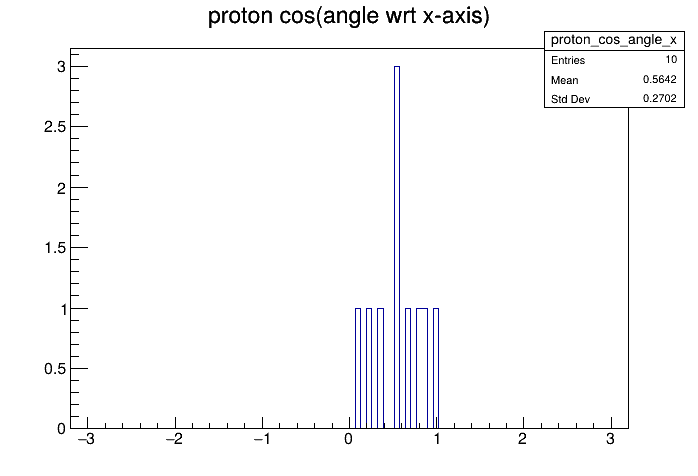
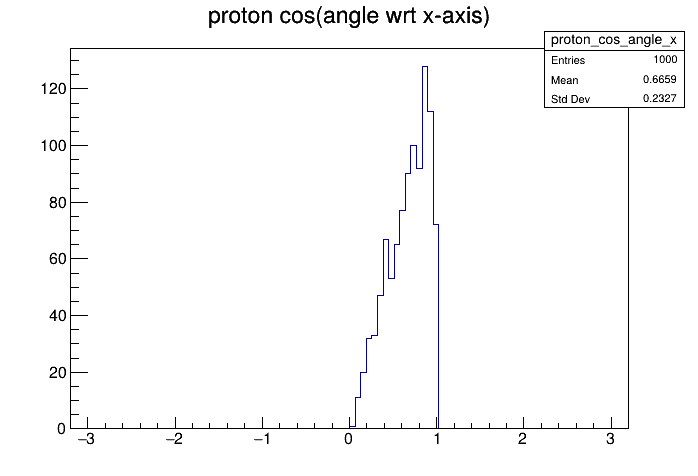
Added output.

diff --git a/neutrons.py b/neutrons.py
@@ -5,6 +5,7 @@ import math
 from ROOT import TLorentzVector, TVector3, TGraphErrors
 from array import array
 from math import sqrt
+import numpy as np
 
 # to do
 
@@ -51,7 +52,7 @@ def main():
     neutron_energies = [
         1.0
     ]  # [1.0, 3.0, 5.0]                  # neutron beam kinetic energy [MeV]
-    n_neutrons_detected = [100]  # [10,15,20,50,100]
+    n_neutrons_detected = [1000]  # [10,15,20,50,100]
     gas = ["Propane"]
 
     h_angle_residual = TH1F(
@@ -100,6 +101,15 @@ def main():
         180.0,
     )
 
+    # Lists for CSVs for training
+    protonPhiTruth = []
+    protonThetaTruth = []
+    protonEnergyTruth = []
+    protonPhiSmear = []
+    protonThetaSmear = []
+    protonEnergySmear = []
+
+
     for kinetic_energy in neutron_energies:
         E_n = neutron_mass + kinetic_energy
         p_n = sqrt(E_n**2 - neutron_mass**2)
@@ -123,7 +133,19 @@ def main():
                 true_protons = proton_scattering(
                     random_engine, n_neutrons, incoming_neutron, gas
                 )
+
+                for proton in true_protons:
+                    protonEnergyTruth.append(proton.E())
+                    protonThetaTruth.append(proton.Theta())
+                    protonPhiTruth.append(proton.Phi())
+
                 reco_protons = proton_detection(random_engine, true_protons)
+
+                for proton in reco_protons:
+                    protonEnergySmear.append(proton.E())
+                    protonThetaSmear.append(proton.Theta())
+                    protonPhiSmear.append(proton.Phi())
+                
                 energy, angle = find_beam_direction(reco_protons, kinetic_energy, debug)
                 h_angle_residual.Fill((angle - 0.0))
                 h_energy_residual.Fill((energy - kinetic_energy) / kinetic_energy)
@@ -185,6 +207,8 @@ def main():
         # energy = fit.GetParameter(0);
         # angle  = fit.GetParameter(1);
 
+    np.savetxt("TruthData.csv", [p for p in zip(protonPhiTruth, protonThetaTruth, protonEnergyTruth)], delimiter=',', newline='\n')
+    np.savetxt("SmearData.csv", [p for p in zip(protonPhiSmear, protonThetaSmear, protonEnergySmear)], delimiter=',', newline='\n')
     print("Done!")
 
 
